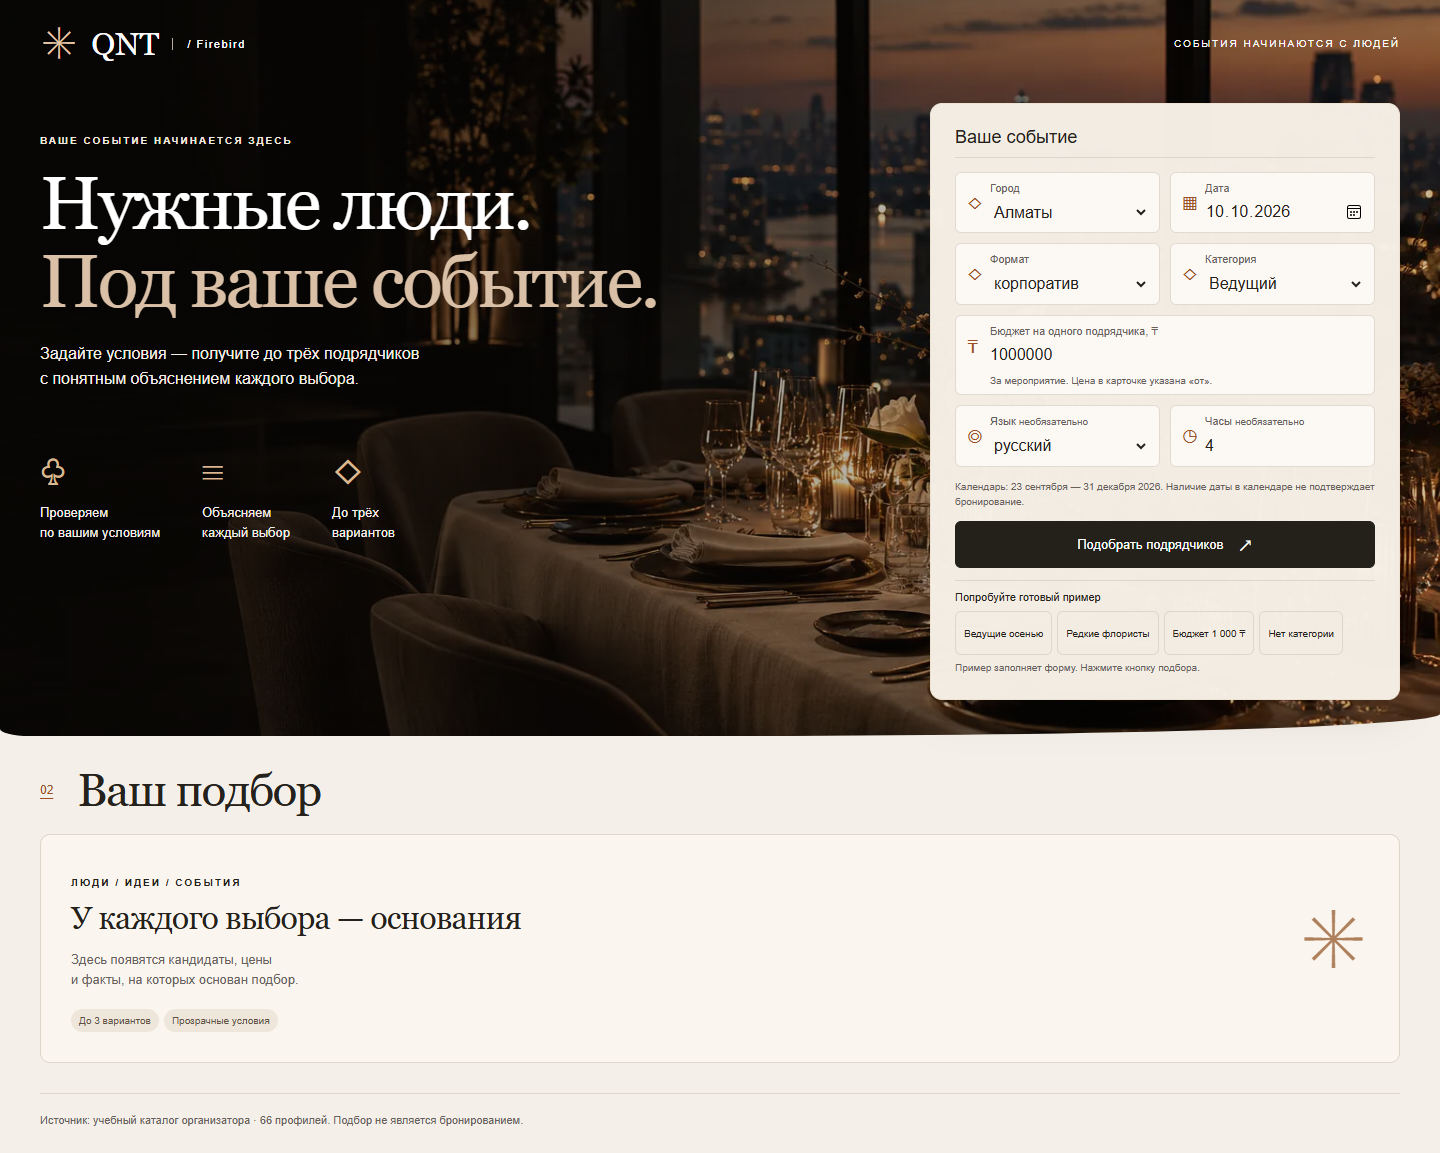
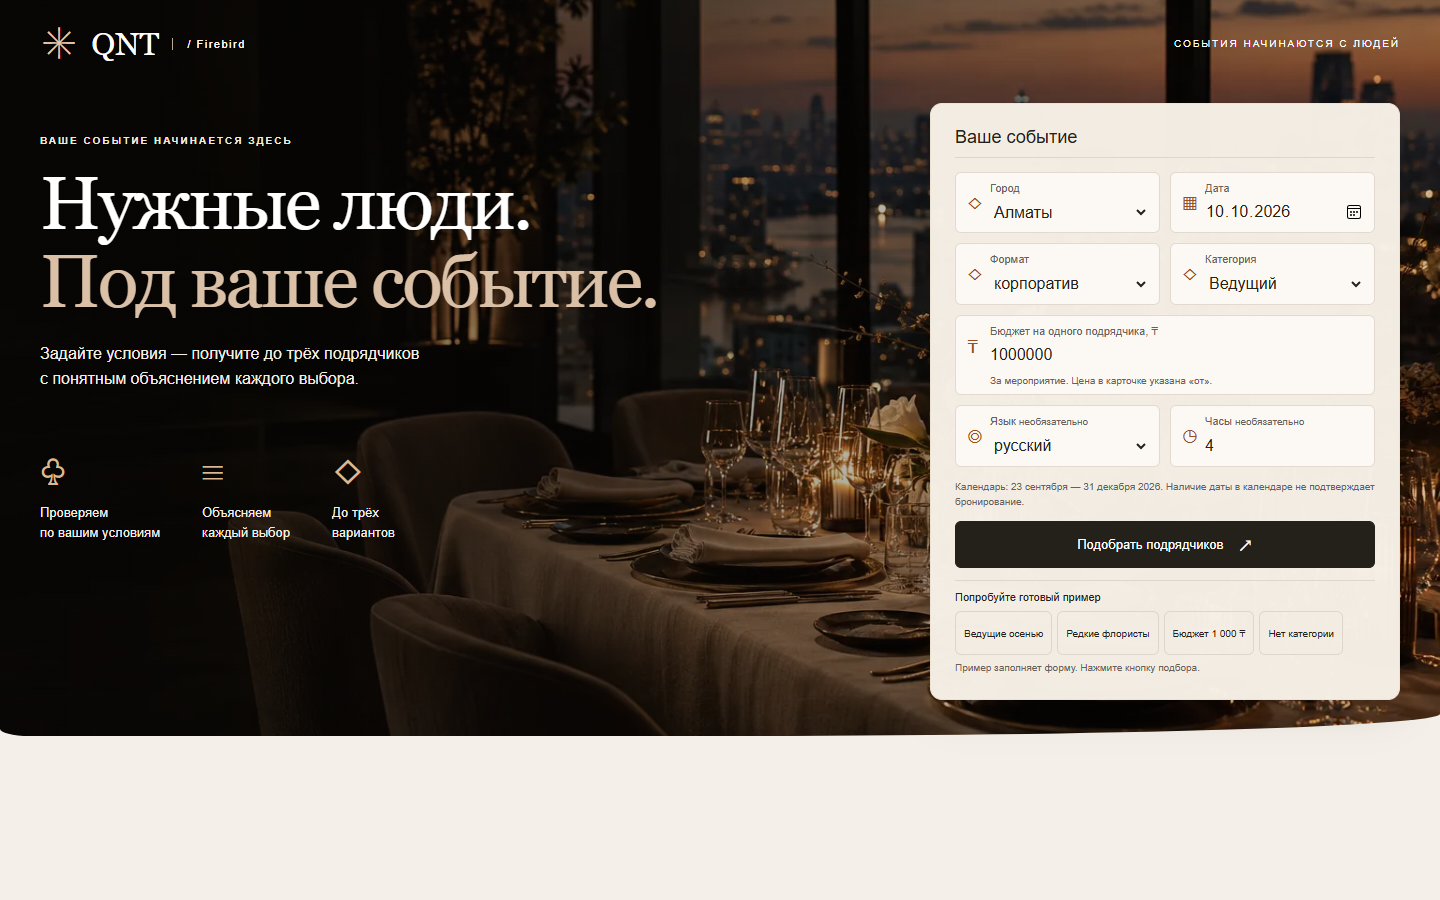
Make results a dedicated screen with persistent search conditions

diff --git a/frontend/src/main.tsx b/frontend/src/main.tsx
@@ -17,6 +17,7 @@ function App() {
  const [compact, setCompact] = useState(false);
  const active = useRef<AbortController | null>(null);
  const sequence = useRef(0);
+ const resultHeader = useRef<HTMLDivElement>(null);
  const outcome = useRef<HTMLHeadingElement>(null);
  const firstField = useRef<HTMLSelectElement>(null);
  useEffect(() => {
@@ -31,6 +32,16 @@ function App() {
    outcome.current?.focus({ preventScroll: true });
    window.scrollTo({ top: 0, behavior: 'instant' });
   }
+ }, [compact]);
+ useEffect(() => {
+  if (!compact || !resultHeader.current) return;
+  const root = document.documentElement;
+  const previous = root.style.scrollPaddingTop;
+  const observer = new ResizeObserver(([entry]) => {
+   root.style.scrollPaddingTop = `${entry.target.getBoundingClientRect().height + 16}px`;
+  });
+  observer.observe(resultHeader.current);
+  return () => { observer.disconnect(); root.style.scrollPaddingTop = previous; };
  }, [compact]);
  function editConditions() {
   setCompact(false);
@@ -51,10 +62,10 @@ function App() {
  }
  return <>
   {demo && <div className="demo" role="note">Демонстрационные ответы интерфейса <span>· Вымышленные примеры, без сервера и AI</span></div>}
-  <main className={compact ? 'has-results' : undefined}><div className="hero"><header><a className="brand" href="./"><span className="mark" aria-hidden="true">✳</span> QNT <span className="brand-case">/ Firebird</span></a><span className="tag">СОБЫТИЯ НАЧИНАЮТСЯ С ЛЮДЕЙ</span></header>
+  <main className={compact ? 'has-results' : undefined}><div className="hero" ref={resultHeader}><header><a className="brand" href="./"><span className="mark" aria-hidden="true">✳</span> QNT <span className="brand-case">/ Firebird</span></a>{compact ? <button className="edit-conditions" onClick={editConditions} aria-controls="event-form" aria-expanded={false}>Изменить условия <span aria-hidden="true">↗</span></button> : <span className="tag">СОБЫТИЯ НАЧИНАЮТСЯ С ЛЮДЕЙ</span>}</header>
   {compact && <section className="conditions" aria-labelledby="conditions-title">
-   <div className="conditions-heading"><h1 id="conditions-title">Ваше событие</h1><button className="edit-conditions" onClick={editConditions} aria-controls="event-form" aria-expanded={false}>Изменить условия <span aria-hidden="true">↗</span></button></div>
-   <dl className="conditions-list">
+   <h1 id="conditions-title" className="sr-only">Условия вашего события</h1>
+   <dl className="conditions-list" tabIndex={0} aria-label="Условия подбора; на узком экране список прокручивается по горизонтали">
     <div><dt>Город</dt><dd>{form.city}</dd></div><div><dt>Дата</dt><dd>{form.date.split('-').reverse().join('.')}</dd></div>
     <div><dt>Формат</dt><dd>{form.event_format}</dd></div><div><dt>Категория</dt><dd>{form.category}</dd></div>
     <div><dt>Бюджет на одного</dt><dd>до {new Intl.NumberFormat('ru-RU').format(Number(form.budget_kzt))} ₸</dd></div>
@@ -75,7 +86,7 @@ function App() {
    <label htmlFor="hours">Часы <small>необязательно</small><input id="hours" type="number" min="0.01" step="any" placeholder="Без ограничения" value={form.duration_hours} onChange={e => update('duration_hours', e.target.value)}/></label>
   </div><p className="hint">Календарь: 23 сентября — 31 декабря 2026. Наличие даты в календаре не подтверждает бронирование.</p><button className="primary" type="submit">{loading ? 'Подбираем… Повторить запрос' : 'Подобрать подрядчиков'}<span aria-hidden="true">↗</span></button><div className="search-feedback" role="status" aria-atomic="true">{loading ? 'Проверяем условия. Ожидание — до 12 секунд…' : error ? 'Не удалось выполнить подбор.' : result ? (result.returned_count ? `Подбор готов: ${result.returned_count} варианта.` : 'Подбор завершён: совпадений нет.') : ''}</div>{(result || error) && <button className="outcome-link" type="button" onClick={() => { outcome.current?.focus({ preventScroll: true }); outcome.current?.scrollIntoView({ block: 'start' }); }}>{error ? 'Перейти к ошибке' : 'Посмотреть результат'} ↓</button>}</form>}
   <div className="examples"><p>Попробуйте готовый пример</p><div>{examples.map(e => <button key={e.title} disabled={!options} onClick={() => example(e.request)}>{e.title}</button>)}</div><small>Пример заполняет форму. Нажмите кнопку подбора.</small></div></section></div></div>
-  <div className="content"><section className="results" aria-labelledby="results-title" aria-busy={loading}><div className="section-title"><span className="step">02</span><h2 id="results-title" ref={outcome} tabIndex={-1}>Ваш подбор<span className="title-dot">.</span></h2></div>
+  <div className="content" hidden={!compact && !loading && !error}><section className="results" aria-labelledby="results-title" aria-busy={loading}><div className="section-title"><span className="step" aria-hidden="true">✳</span><h2 id="results-title" ref={outcome} tabIndex={-1}>Ваш подбор<span className="title-dot">.</span></h2>{compact && result && <span className="result-total">Показано: {result.returned_count}</span>}</div>
   <div>{loading && <p className="status">Проверяем условия. Ожидание — до 12 секунд…</p>}{result && <ResultSummary result={result} date={form.date}/>}</div>
   {error && <div className="error" role="alert">{error}<p>Параметры сохранены. Повторите подбор.</p></div>}
   {!result && !loading && !error && <div className="empty"><p className="eyebrow">ЛЮДИ / ИДЕИ / СОБЫТИЯ</p><span className="empty-icon" aria-hidden="true">✳</span><h3>У каждого выбора — основания</h3><p>Здесь появятся кандидаты, цены<br/> и факты, на которых основан подбор.</p><div className="pills"><span>До 3 вариантов</span><span>Прозрачные условия</span></div></div>}

diff --git a/frontend/src/style.css b/frontend/src/style.css
@@ -156,3 +156,25 @@ h1{font-size:39px}
 .has-results .content{padding-top:25px}
 @media(max-width:760px){.conditions{padding:16px 20px 0}.conditions-heading{gap:12px}.conditions h1{font-size:23px}.edit-conditions{font-size:11px;padding:9px}.conditions-list{display:grid;grid-template-columns:repeat(2,minmax(0,1fr));gap:12px 18px}.conditions-list dd{font-size:12px}.conditions-list dt{font-size:10px}.has-results .tag{display:none}}
 @media(max-width:360px){.conditions{padding-left:16px;padding-right:16px}.conditions h1{font-size:21px}.edit-conditions{gap:6px}}
+
+/* Dedicated results screen; conditions remain accessible while scrolling. */
+.sr-only{position:absolute!important;width:1px!important;height:1px!important;padding:0!important;margin:-1px!important;overflow:hidden!important;clip-path:inset(50%);white-space:nowrap!important;border:0!important}
+.has-results{min-height:100dvh}
+.has-results .hero{position:sticky;top:0;z-index:20;background:#211b15;border-radius:0;padding-bottom:14px;box-shadow:0 6px 24px #211b151c}
+.has-results header{padding-top:12px;padding-bottom:12px;border:0}
+.has-results .brand{font-size:26px}
+.has-results .mark{font-size:32px}
+.has-results .conditions{padding-top:0}
+.has-results .conditions-list{gap:10px 26px;padding:0 0 2px}
+.has-results .conditions-list>div{border-left:1px solid #ffffff26;padding-left:14px}
+.has-results .conditions-list>div:first-child{border-left:0;padding-left:0}
+.has-results .conditions-list dt{font-size:10px}
+.has-results .conditions-list dd{font-size:12px}
+.has-results .content{padding-top:38px;min-height:calc(100dvh - 150px)}
+.has-results .results>.section-title{margin-bottom:22px;gap:18px}
+.has-results .results h2{font-size:54px;letter-spacing:-1.8px;scroll-margin-top:12px}
+.has-results .results>.section-title .step{font-size:32px;text-decoration:none;color:#aa7b56}
+.result-total{margin-left:auto;border:1px solid var(--line);border-radius:30px;padding:7px 13px;font-size:11px;color:var(--muted);white-space:nowrap}
+.has-results .card,.has-results summary{scroll-margin-top:16px}
+@media(max-width:760px){.has-results header{padding:10px 20px}.has-results .brand{font-size:23px;gap:8px}.has-results .brand-case{font-size:9px;padding-left:9px}.has-results .mark{font-size:28px}.has-results .hero{padding-bottom:10px}.has-results .conditions{padding:0 20px}.has-results .conditions-list{display:flex;flex-wrap:nowrap;overflow-x:auto;gap:14px;padding:4px 0 9px;scrollbar-width:thin;scrollbar-color:#a58b70 #211b15}.has-results .conditions-list>div{flex:0 0 auto;max-width:220px;padding-left:14px}.has-results .conditions-list dd{font-size:12px}.has-results .content{padding-top:28px}.has-results .results h2{font-size:37px;letter-spacing:-1px}.has-results .results>.section-title{gap:10px;flex-wrap:wrap}.has-results .results>.section-title .step{font-size:25px}.result-total{padding:5px 9px;font-size:10px}.has-results .edit-conditions{font-size:11px;gap:8px;padding:8px 10px}}
+@media(max-width:360px){.has-results header{padding-left:16px;padding-right:16px}.has-results .brand-case{display:none}.has-results .conditions{padding-left:16px;padding-right:16px}.has-results .results h2{font-size:32px}.result-total{margin-left:0}}

diff --git a/docs/UI_QA.md b/docs/UI_QA.md
@@ -67,3 +67,9 @@
 - Скриншоты обновлены: editorial-1440.png и editorial-390.png теперь показывают состояние после поиска; before-search-1440.png — исходный экран. Mobile и OG визуально просмотрены.
 
 После деплоя Естаю: проверить https://qnt.l33t.kz/favicon.svg и /og-image.png, серверный HTML с метаданными, затем реальный предпросмотр ссылки в чатах (возможен старый кеш). Сейчас новые ассеты проверены только локально; публикация, чат-превью и физический телефон не проверены. Backend, API-контракт и деплой не изменялись.
+
+## Закреплённая шапка и экран результатов, 23.09.2026
+
+«Ваш подбор» теперь отдельное состояние экрана: до поиска секция результата скрыта, после успешного ответа показывается экран карточек. При редактировании условий результат скрывается, значения формы сохраняются. На экране результата шапка sticky с кнопкой изменения условий остаётся сверху. На телефоне семь условий доступны в горизонтально прокручиваемой строке (с клавиатурным фокусом), без горизонтального переполнения страницы. Высота шапки учитывается через ResizeObserver в scroll-padding, чтобы переходы к фактам не перекрывались.
+
+Фактически: 17/17 Vitest PASS; production build PASS: HTML 2.58 kB (gzip 0.79), CSS 14.20 (3.73), JS 241.84 (75.63). Реальный backend перезапущен без AI на 8002. Браузерный QA PASS на 320/375/390/768/1024/1440: все прежние сценарии и метаданные, sticky top=0 после прокрутки, высота мобильной шапки <150 px, прокрутка до последних условий, факты после scrollIntoView ниже шапки, редактирование возвращает фокус в город. Скриншоты обновлены; desktop/mobile просмотрены. Физический телефон и реальная модель AI не проверялись; деморежим отдельно в этой итерации не запускался. Публичный сайт не менялся.
